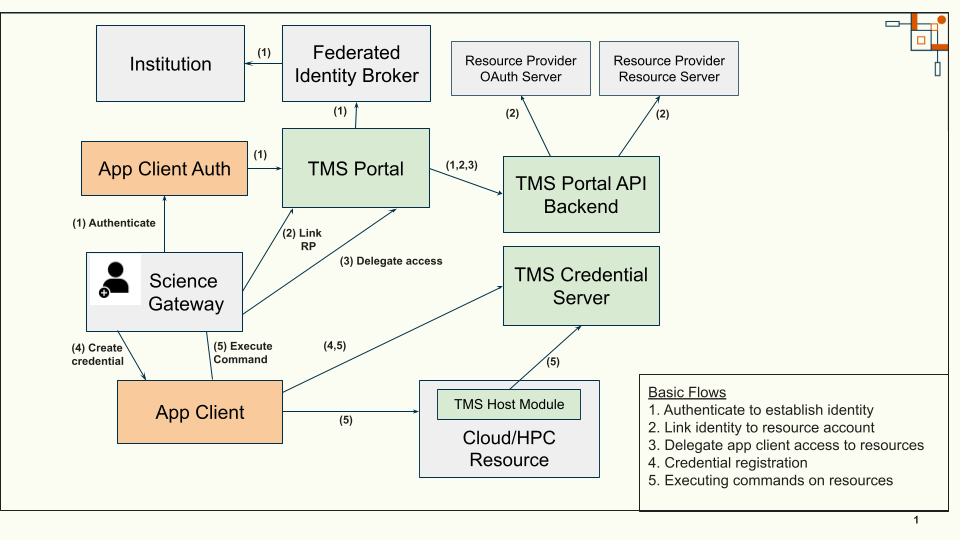
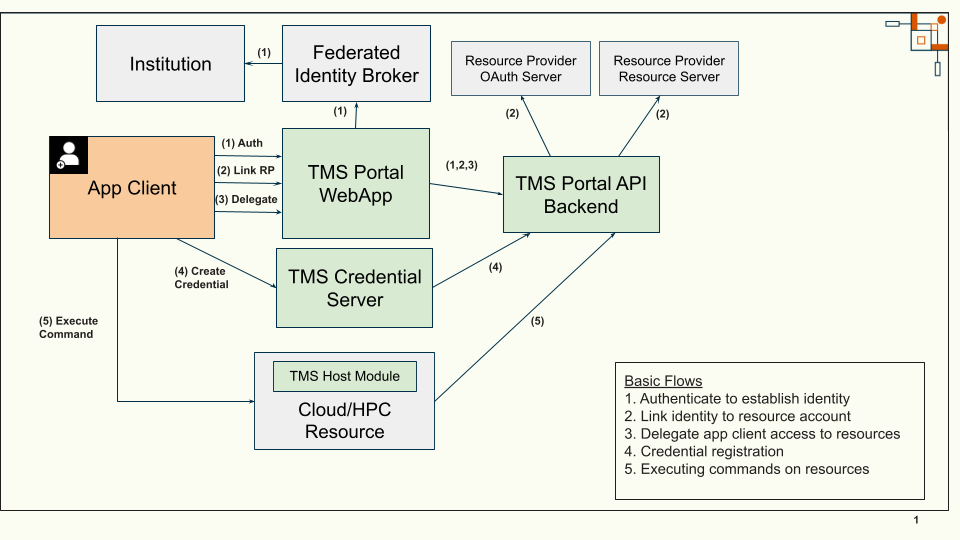
wip2. Update some descriptions, update Fig 1 - high level architecture.

diff --git a/source/technical/index.rst b/source/technical/index.rst
@@ -28,15 +28,16 @@ components comprising TMS as well as the external components with which TMS will
 
 *Application Client*
   An application that will make use of TMS for credential management. TMS will be used
-  to allow an application client user to delegate access to resource provider accounts.
+  to allow an application user to delegate access to resource provider accounts.
 *Federated Identity Broker*
   Service supporting federated login, e.g., *Globus* or *CILogon*. This is the service
-  used by TMS to allow users to login through their institution, such as a university or
+  used by TMS to allow users to log in through their institution, such as a university or
   research center.
 *Resource Provider (RP)*
   A cyber-infrastructure provider supporting OAuth login and providing one or more resource hosts.
-  Examples of such providers are the Texas Advanced Computing Center (TACC) and the San Diego
-  Supercomputer Center (SDSC).
+  Examples of such providers are the Texas Advanced Computing Center (TACC), the San Diego
+  Supercomputer Center (SDSC), the Pittsburgh Supercomputing Center (PSC) and the National Center
+  for Supercomputing Applications (NCSA).
 *Resource Provider OAuth Server (RPOS)*
   An OAuth server for a resource provider.
 *Resource Provider Resource Server (RPRS)*
@@ -45,9 +46,9 @@ components comprising TMS as well as the external components with which TMS will
 *Resource*
   The host provided by a resource provider, such as *stampede3@tacc*, *expanse@sdsc*.
 *TMS Portal WebApp*
-  A web-based application allowing a user to link their institutional identity to selected resource
-  providers and approve (i.e. delegate) selected application clients to act on their behalf when
-  interacting with those resource providers.
+  A web-based application allowing a user to link their institutional identity to a resource
+  provider and approve (i.e. delegate) an application client to act on their behalf when interacting
+  with those resource providers.
 *TMS Portal API Backend*
   A back-end REST API service supporting OAuth login, RP linking and resource delegation initiated
   by the TMS Portal WebApp.
@@ -69,24 +70,25 @@ Basic Flows Supported by TMS
 ============================
 
 TMS supports flows related to authentication, resource account linking, resource delegation and
-command execution on remote hosts.
+remote command execution.
 
 *Authentication*
-  A person, the application client user, establishes their identity by logging in to their institution
-  through TMS.
+  A user establishes their identity by logging in to their institution through the TMS Portal WebApp.
 *Resource Account Linking*
-  The application client user links their identity with a resource provider by logging in to their
-  resource provider account through TMS.
+  Once logged in to the TMS portal, the user links their identity with a resource provider by logging in to
+  their resource provider account.
 *Resource Delegation*
-  The application client user authorizes the application client to act on their behalf on specific
-  resource hosts.
+  Once logged in to the TMS portal, the user delegates an application client to act on their behalf for
+  operations at a resource provider.
 *Resource Credential Registration*
-  The application client user requests that TMS generate access credentials for a specific resource host.
-  The application client saves the credential for later use. Note that TMS does not save the secret part
-  of the credential, the private key. TMS only persists the public key. The application client may pass the
-  credentials back to the client user or store them in a secure location.
+  Once the resource account is linked and the delegation is approved, the application user requests
+  that the application register credentials for a resource host. The application client calls the TMS
+  Credential Server to request new access credentials. The application client saves the credential for
+  later use. Note that TMS does not save the secret part of the credential, the private key.
+  TMS only persists the public key. The application client may pass the credentials back to the user
+  or store them in a secure location.
 *Resource Host Command Execution*
-  The application client uses the credential to access the resource host on behalf of the user.
+  The application client uses the registered credential to access the resource host on behalf of the user.
 
 
 High Level Architecture
@@ -109,7 +111,7 @@ Authentication Flow
 
    **Figure 2 - Authentication Flow**
 
-Figure 2 shows a detailed view of the flow to establish the initial application client user identity.
+Figure 2 shows a detailed view of the flow to establish the initial application user identity.
 
 Resource Account Linking Flow
 -----------------------------
@@ -119,7 +121,7 @@ Resource Account Linking Flow
 
    **Figure 3 - Resource Account Linking Flow**
 
-Figure 3 shows a detailed view of how the application client user links their identity with
+Figure 3 shows a detailed view of how the application user links their identity with
 a resource provider account.
 
 Resource Delegation Flow
@@ -130,7 +132,7 @@ Resource Delegation Flow
 
    **Figure 4 - Resource Delegation Flow**
 
-Figure 4 shows a detailed view of how the application client user authorizes the application client
+Figure 4 shows a detailed view of how the application user authorizes the application client
 to act on their behalf for a resource provider.
 
 Resource Credential Registration Flow

diff --git a/source/index.rst b/source/index.rst
@@ -38,8 +38,9 @@ TMS is designed to support automated application authentication with four key go
 What is TMS?
 ============
 
-In essence, the Trust Manager System (TMS) provides a manageable way for a science gateway user to authorize and make
+In essence, the Trust Manager System (TMS) provides a manageable way for an application user to authorize and make
 use of resources at various institutions without having to manually register credentials for each individual resource.
+An example of a typical application would be a science gateway web application.
 
 TMS is a web application exposing a REST API to manage SSH keys, client applications, user delegations, user federated
 identity authentication, resource hosts, and resource host account mappings.
